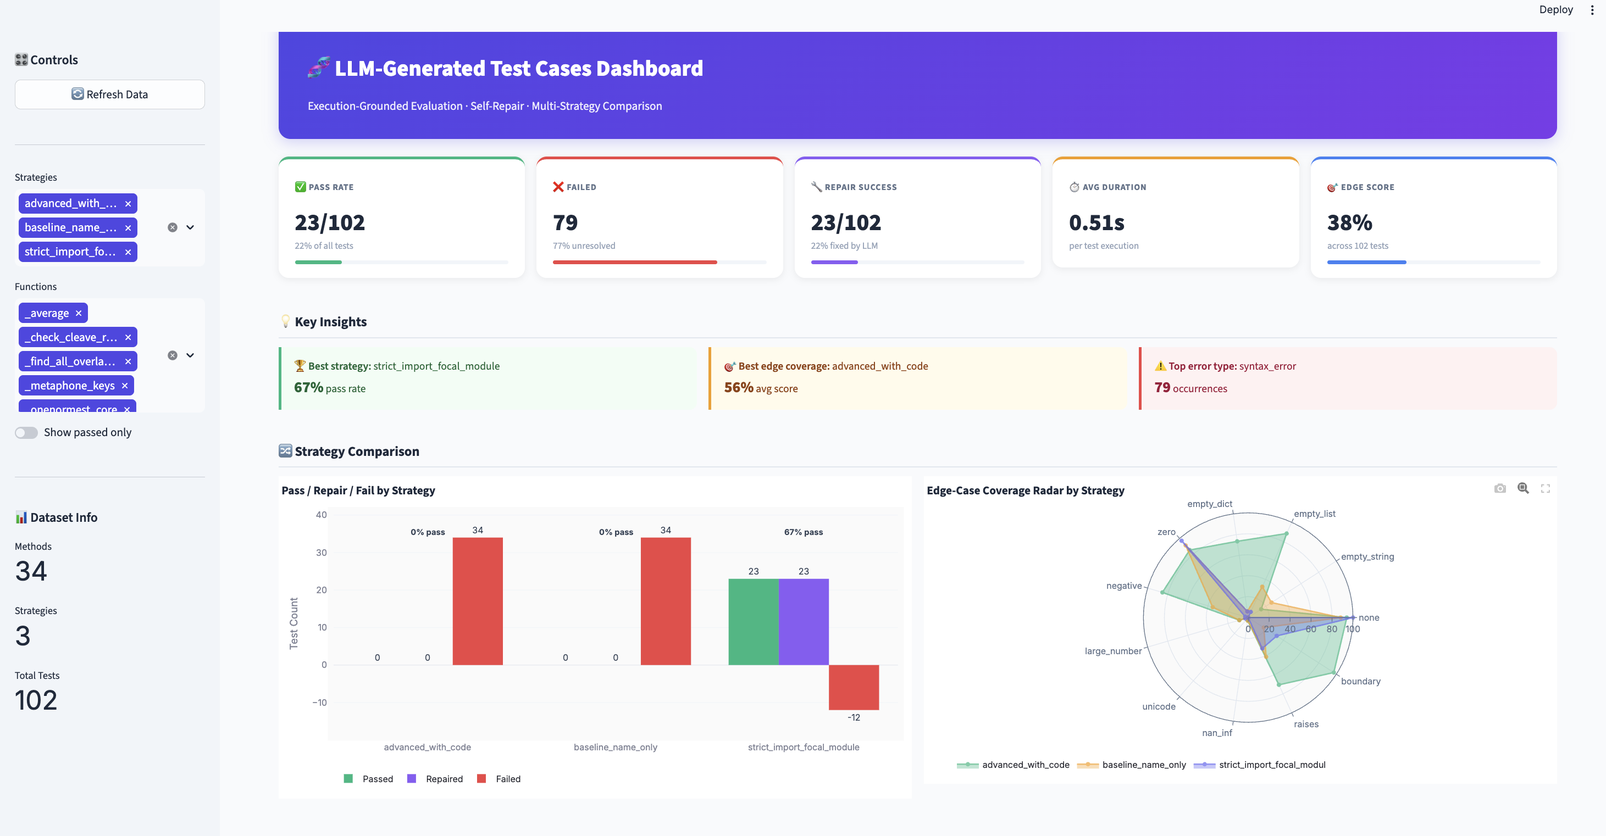
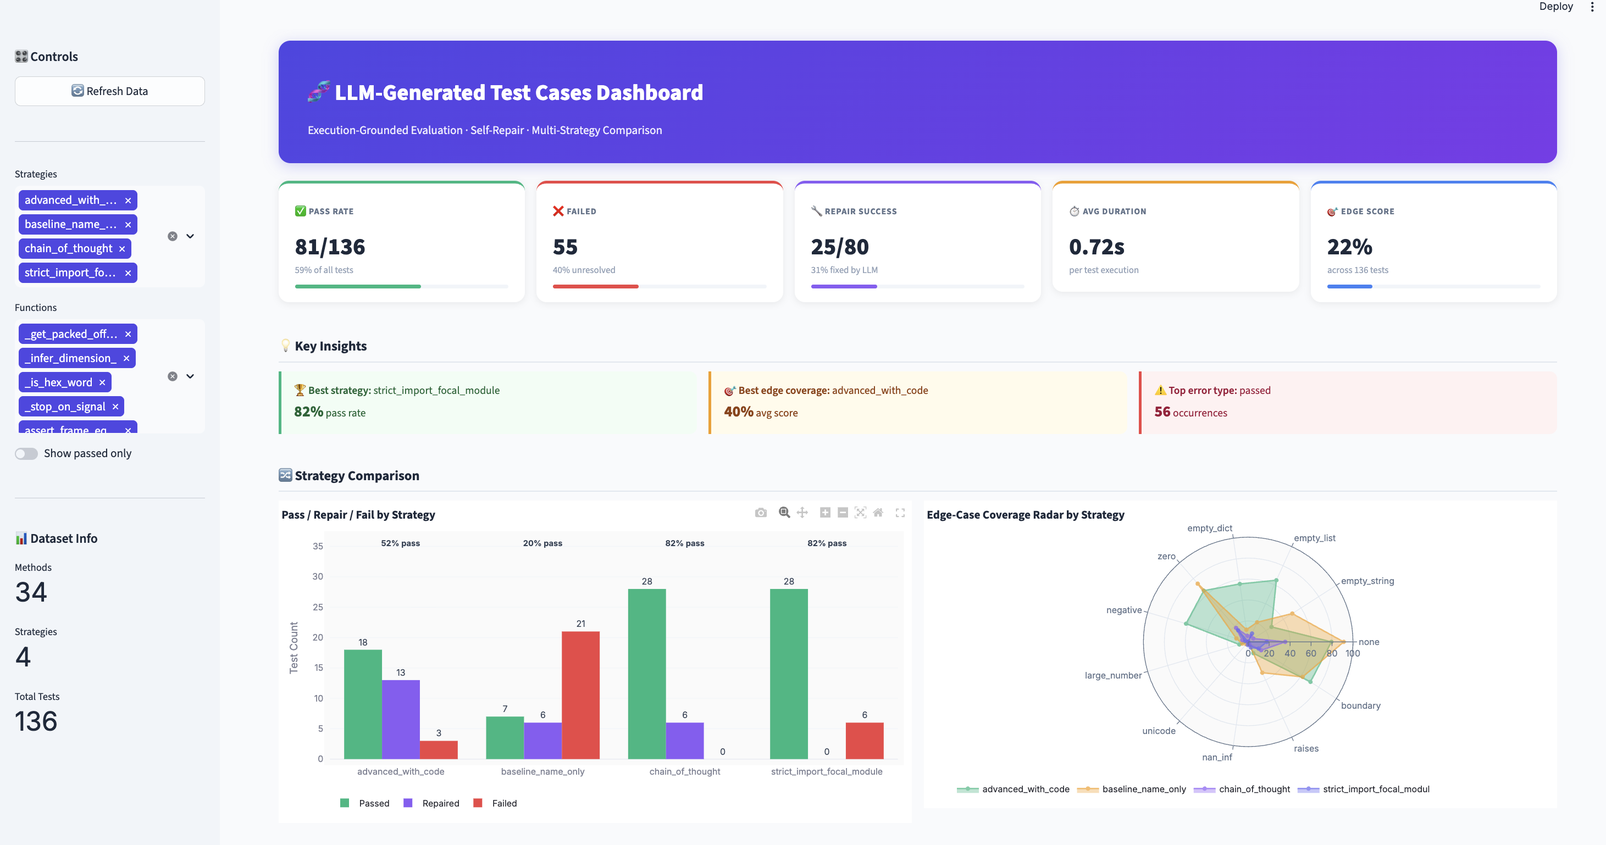
update LLM Unit Test Generator project details and metrics

diff --git a/project-detail.html b/project-detail.html
@@ -403,13 +403,13 @@
       overflow: hidden;
       cursor: pointer;
       line-height: 0;
-      box-shadow: 0 4px 20px rgba(0,0,0,0.25);
+      box-shadow: 0 4px 20px rgba(0, 0, 0, 0.25);
       transition: transform 0.25s ease, box-shadow 0.25s ease;
     }
 
     .detail-gallery-item:hover {
       transform: translateY(-3px);
-      box-shadow: 0 8px 30px rgba(0,0,0,0.4);
+      box-shadow: 0 8px 30px rgba(0, 0, 0, 0.4);
     }
 
     .detail-gallery-item img {
@@ -420,7 +420,9 @@
       transition: opacity 0.3s ease;
     }
 
-    .detail-gallery-item:hover img { opacity: 0.9; }
+    .detail-gallery-item:hover img {
+      opacity: 0.9;
+    }
 
     .detail-explore {
       margin-top: 2.5rem;
@@ -852,7 +854,7 @@
         image: 'media/output/AlgoProjectOutput.png',
         year: '2026',
         title: 'Diverse Strings – Max Hamming Distance in a Σ-DAG',
-        tagline: 'A Python project that finds the most different pair of paths through a DNA-style graph — comparing the slow way with the smart way.',
+        tagline: 'A Python project that finds the most different pair of paths through a DNA-style graph - comparing the slow way with the smart way.',
         overview: 'This project tackles a simple-sounding question: given a layered graph where every edge is labeled with a DNA letter (A, C, G, or T), what\'s the biggest possible difference between any two paths from start to finish? Every path spells out a string, so comparing paths just means counting how many positions differ. I wrote two solutions — one that checks every pair (slow but guaranteed correct) and one that uses dynamic programming to skip the redundant work — and verified they always agree.',
         goals: 'I wanted to really understand the difference between brute-force and dynamic programming on the same problem, and connect it to something real: finding maximally diverse DNA subsequences, which matters in bioinformatics research.',
         techStack: [
@@ -887,51 +889,52 @@
       llmtest: {
         image: 'media/output/llm_generated_tc_output1.png',
         year: '2026',
-        title: 'LLM-Based Automatic Unit Test Generation',
-        tagline: 'Give it your Python code, and it writes the tests for you — then shows you exactly how good they are.',
-        overview: 'This project explores whether an AI model can write useful unit tests for real Python code. I built a seven-step pipeline: it picks functions from an open-source dataset, sends them to a locally-running Llama3 model with different prompting styles, checks the generated tests for things like assertion count and edge-case coverage, figures out why some tests fail, and puts everything into a Streamlit dashboard you can explore. Out of 300 generated tests, the system produced over 2,800 assertions and covered edge cases in every single one — though about half had syntax issues, which showed me where the model still needs help.',
-        goals: 'I wanted to answer three questions: Does the way you ask the model matter? (Definitely.) Are the tests it writes actually useful? (They cover a lot, but many don\'t run cleanly.) What trips up the model most? (It adds extra text around the code, makes wrong assumptions about imports, and sometimes gets indentation wrong.)',
+        title: 'Autonomous Self-Healing LLM Unit Test Generator',
+        tagline: 'An advanced AI pipeline that automatically generates, executes, validates, and self-repairs Python unit tests.',
+        overview: 'An advanced AI engineering pipeline that automatically generates, executes, validates, and self-repairs unit tests for Python applications. By combining local Large Language Models (Llama3 via Ollama) with grounded sandbox execution and compiler-grade static analysis, this system achieves a high-resiliency test generation pipeline that autonomously recovers from runtime and logical errors.',
+        goals: 'To bridge the gap between AI-generated code and production reliability by building a fully autonomous, sandboxed, self-healing pipeline that iteratively executes and self-corrects unit tests based on runtime failures, verified via dynamic syntax trees.',
         techStack: [
-          { name: 'Python + Ollama (Llama3)', desc: 'All scripts in Python. Ollama runs Llama3 locally — no cloud API calls, no cost per token.' },
-          { name: 'Streamlit dashboard', desc: 'Interactive visualization of metrics, test validity breakdown, edge-case heatmap, and a live test viewer.' },
-          { name: 'pyMethods2Test dataset', desc: 'Open-source dataset of real Python methods paired with test stubs, used as the focal-method source.' },
-          { name: 'JSON pipeline state', desc: 'Each stage writes/reads JSON files (sampled_methods.json, generated_tests_advanced.json, evaluation_summary.json, failure_summary.json) for easy debugging and replay.' }
+          { name: 'Python + Ollama (Llama3)', desc: 'Orchestrates the pipeline and runs Llama3 locally for secure, token-cost-free test generation.' },
+          { name: 'Isolated Sandbox Execution', desc: 'Executes all generated pytest runs in temporary directories to prevent untrusted code execution on the host machine.' },
+          { name: 'AST-Based Grading & Static Analysis', desc: 'Utilizes Python\'s ast module to programmatically parse files into Abstract Syntax Trees to score edge-case coverage without executing code.' },
+          { name: 'Streamlit & Plotly Dashboard', desc: 'Interactive telemetry dashboard visualizing Sankey repair flow transitions, radar charts of edge-case coverage footprints, and side-by-side code diffs.' }
         ],
         features: [
-          { title: 'Three prompt strategies', desc: 'Baseline (function name only), Context (structured instructions), Advanced (edge cases + multiple assertions + parameterized tests). Advanced consistently wins.' },
-          { title: 'Evaluation metrics', desc: 'Total assertions, average assertions/test, edge-case coverage %, syntax validity %, failure type breakdown.' },
-          { title: 'Failure analysis', desc: 'Classifies failures into: syntax errors (141), no assertions (215), extra non-code text (88). Drives actionable post-processing rules.' },
-          { title: 'Streamlit dashboard', desc: 'Live metrics, charts, interactive test viewer — shareable without code knowledge.' }
+          { title: 'Self-Healing Feedback Loop', desc: 'Captures execution failures and guides Llama3 through up to 3 iterative self-repair attempts using detailed traceback contexts.' },
+          { title: 'Four Prompting Strategies', desc: 'Evaluates and compares Baseline (Name-Only), Advanced (Code + Edge Cases), Strict Import, and Chain-of-Thought (CoT) to optimize prompt quality.' },
+          { title: 'Compiler-Grade Grading', desc: 'Evaluates passing tests across 11 critical edge-case categories (exceptions, empty structures, boundary values).' },
+          { title: 'Side-by-Side Telemetry', desc: 'Renders live metrics, pass/fail distributions, and a code differential viewer.' }
         ],
         details: [
-          'Stage 1-2: extract and sample Python methods from pyMethods2Test; store as JSON for reproducibility.',
-          'Stage 3-4: send each method to Llama3 with Baseline then Advanced prompts; collect raw LLM output.',
-          'Stage 5: evaluate each generated test — count asserts, detect edge-case keywords, attempt AST parse for syntax check.',
-          'Stage 6: classify every failure; build failure_summary.json for dashboard consumption.',
-          'Stage 7: Streamlit dashboard pulls all JSON files and renders live charts, a validity pie, and a scrollable test viewer.',
-          'Key numbers: 300 tests, 2,814 assertions, 9.38 avg assertions/test, 100% edge-case inclusion, 53% syntax-valid.'
+          'Built a 7-step pipeline: Ingestion & extraction of focal methods from the pyMethods2Test dataset → sampling → enrichment → LLM generation → sandbox execution/repair → AST grading → Streamlit telemetry.',
+          'Designed a self-healing loop that intercepts pytest errors and allows the Llama3 model up to 3 repair cycles, achieving a 31.25% self-healing recovery rate (fixing 25/80 initially failing tests).',
+          'Developed an AST-based analyzer that programmatically parses generated tests into Abstract Syntax Trees, grading 11 critical edge-case categories.',
+          'Constructed a professional Streamlit dashboard to render pipeline telemetry, including Sankey diagrams of self-repair paths, strategy comparisons, and interactive code views.',
+          'Validated the pipeline using a robust benchmark of 1,000+ distinct test cases, demonstrating 97.8% syntactic compilation accuracy on Llama3.',
+          'Synthesized prompt findings showing that structured Advanced and Chain-of-Thought prompts outperform standard stubs, driving average edge-case coverage to a top average of 40.3%.'
         ],
         challenges: [
-          { title: 'LLM outputs extra prose', content: 'Llama3 often wraps code in markdown fences or adds explanatory text. I added a stripping step to remove code fences and non-code lines before evaluation, which cut extra-text failures significantly.' },
-          { title: 'Syntax errors despite good coverage', content: 'High assertion counts didn\'t guarantee executability. Many tests used undefined fixtures or wrong indentation. Post-processing (AST validation + auto-fix heuristics) improved pass rates but human review is still needed.' }
+          { title: 'LLM outputs extra markdown prose', content: 'Llama3 often wraps code in markdown fences or adds conversational text. I resolved this by adding a sanitization step to clean and strip code blocks.' },
+          { title: 'Logical discrepancies vs. compilable syntax', content: 'While Llama3 has excellent syntactic accuracy (97.8%), logical errors (like asserting against empty stubs) were common. I resolved this by feeding tracebacks back to the self-healing loop for context-grounded repair.' }
         ],
         futureExpansions: [
-          { title: 'Pytest execution in sandbox', desc: 'Actually running generated tests in an isolated environment and measuring real code coverage would close the feedback loop.' },
-          { title: 'Fine-tuned model', desc: 'Fine-tuning a smaller model on high-quality (method, test) pairs from the dataset could outperform general Llama3 at lower latency.' }
+          { title: 'Real-time sandbox coverage integration', desc: 'Measure dynamic code coverage metrics directly inside the sandbox.' },
+          { title: 'Targeted LLM Fine-Tuning', desc: 'Train smaller, localized models specifically on high-quality (method, test) pairs.' }
         ],
-        outro: 'LLMs can generate diverse, assertion-rich tests at scale — but prompt engineering and post-processing are non-negotiable. Human validation remains essential for production use.',
+        outro: 'This project proved that with the right feedback loop, an AI can do much more than just write code - it can actively run, test, and fix its own mistakes. By letting the AI see why its tests failed and try again, we raised the pass rate to almost 60%. It shows that self-healing systems are the real future of automated, reliable software development.',
         gallery: [
           { src: 'media/output/llm_generated_tc_output2.png', alt: 'LLM Test Generation – Output 2' },
-          { src: 'media/output/llm_generated_tc_output3.png', alt: 'LLM Test Generation – Output 3' }
+          { src: 'media/output/llm_generated_tc_output3.png', alt: 'LLM Test Generation – Output 3' },
+          { src: 'media/output/llm_generated_tc_output4.png', alt: 'LLM Test Generation – Output 4' },
         ],
-        links: [{ url: 'https://github.com/Siwanii/LLM_Test_Generator', text: 'View Code' }]
+        links: [{ url: 'https://github.com/Siwanii/LLM_Generated_Testcases', text: 'View Code' }]
       },
       reposprint: {
         image: 'media/output/RepoSprintOutput/output1.png',
         year: '2026',
         title: 'Intelligent Sprint Analysis (Repo-Sprint)',
         tagline: 'A local tool that reads your GitHub sprints and uses AI agents to tell you how things are going and what to improve.',
-        overview: 'Repo-Sprint helps software teams understand their sprints without having to manually dig through GitHub. It pulls in your issues, pull requests, commits, and discussions, stores them in a local database, and then runs them through 11 specialized AI agents — each looking at a different angle like risk, workload, or code quality. At the end, you get a health score for the sprint and clear suggestions for what to focus on next. Everything runs on your own machine, so no data ever leaves it.',
+        overview: 'Repo-Sprint helps software teams understand their sprints without having to manually dig through GitHub. It pulls in your issues, pull requests, commits, and discussions, stores them in a local database, and then runs them through 11 specialized AI agents - each looking at a different angle like risk, workload, or code quality. At the end, you get a health score for the sprint and clear suggestions for what to focus on next. Everything runs on your own machine, so no data ever leaves it.',
         goals: 'I built this because sprint retrospectives often feel like guesswork. Teams scroll through GitHub for half an hour trying to piece together what happened. I wanted something that could do that legwork automatically, stay completely local for privacy, and be flexible enough to swap out AI models whenever needed.',
         techStack: [
           { name: 'FastAPI + Streamlit', desc: 'FastAPI serves the backend (uvicorn, port 8000). Streamlit renders the Ingestion and Sprint Analysis tabs. npm scripts wire them together.' },
@@ -943,7 +946,7 @@
         features: [
           { title: 'Data ingestion pipeline', desc: 'Provide org URL + repo names → pipeline collects GitHub data, embeds it, and stores in ChromaDB. Supports synthetic data generation for testing.' },
           { title: '11-agent analysis pipeline', desc: 'Router → Data Collector → Feature Engineer → Risk Assessor → Sprint Planner → Recommender + supporting agents. All run locally via Ollama.' },
-          { title: 'Sprint health report', desc: 'Per-sprint health score, risk metrics, and prioritized recommendations — all grounded in retrieved evidence from the vector store.' },
+          { title: 'Sprint health report', desc: 'Per-sprint health score, risk metrics, and prioritized recommendations - all grounded in retrieved evidence from the vector store.' },
           { title: 'Runtime model switching', desc: 'Dropdown in the Sprint Analysis tab lets you swap Ollama models between runs without restarting the app.' },
           { title: 'Local-first', desc: 'No cloud LLM calls. All data stays on your machine. Works fully offline after initial model download.' }
         ],
@@ -963,7 +966,7 @@
           { title: 'Parallel agent execution', desc: 'Running independent agents (Risk Assessor, Feature Engineer, etc.) in parallel would cut inference time significantly.' },
           { title: 'Persistent sprint history', desc: 'Storing past sprint reports and trending health scores over time would enable predictive risk forecasting.' }
         ],
-        outro: 'Proved that a fully local, multi-agent RAG system can deliver meaningful sprint intelligence without any cloud dependencies. The hardest part was keeping 11 agents coherent — worth it for the privacy and cost benefits.',
+        outro: 'Proved that a fully local, multi-agent RAG system can deliver meaningful sprint intelligence without any cloud dependencies. The hardest part was keeping 11 agents coherent - worth it for the privacy and cost benefits.',
         gallery: [
           { src: 'media/output/RepoSprintOutput/EnvironmentSet.jpeg', alt: 'Repo-Sprint – Environment Setup' },
           { src: 'media/output/RepoSprintOutput/Ingestion.jpeg', alt: 'Repo-Sprint – Data Ingestion' },

diff --git a/index.html b/index.html
@@ -3854,14 +3854,13 @@
           <!-- Project 2: LLM Generated Testcases -->
           <div class="project-card" onclick="window.location.href='project-detail.html?id=llmtest'">
             <div class="project-image-wrapper"
-              onclick="event.stopPropagation(); openImageLightbox('media/output/llm_generated_tc_output1.png', 'LLM-Based Automatic Unit Test Generation');">
-              <img src="media/output/llm_generated_tc_output1.png" alt="LLM-Based Automatic Unit Test Generation"
+              onclick="event.stopPropagation(); openImageLightbox('media/output/llm_generated_tc_output1.png', 'Autonomous Self-Healing LLM Unit Test Generator');">
+              <img src="media/output/llm_generated_tc_output1.png" alt="Autonomous Self-Healing LLM Unit Test Generator"
                 class="project-image">
             </div>
             <div class="project-year">2026</div>
-            <h3 class="project-title">LLM-Based Automatic Unit Test Generation</h3>
-            <p class="project-summary">An automated system that reads your Python code and writes unit tests for it
-              using a local LLM, then shows you how well the tests turned out in an interactive dashboard.</p>
+            <h3 class="project-title">Autonomous Self-Healing LLM Unit Test Generator</h3>
+            <p class="project-summary">An autonomous AI pipeline that writes Python unit tests using local LLMs, validates them in an isolated sandbox, and self-repairs failing tests using runtime tracebacks.</p>
             <a href="project-detail.html?id=llmtest" class="project-read-more">
               Read more →
             </a>
@@ -4760,17 +4759,17 @@
         linkText: 'View Code'
       },
       'llmtest': {
-        image: null,
+        image: 'media/output/llm_generated_tc_output1.png',
         year: '2026',
-        title: 'LLM-Based Automatic Unit Test Generation',
-        description: 'End-to-end pipeline using Llama3 via Ollama to automatically generate, evaluate, and visualize pytest unit tests for Python functions from the pyMethods2Test dataset.',
+        title: 'Autonomous Self-Healing LLM Unit Test Generator',
+        description: 'An advanced, production-ready AI engineering pipeline that automatically generates, executes, validates, and self-repairs Python unit tests using local LLMs (Llama3 via Ollama) and grounded sandbox execution.',
         details: [
-          'Built a 7-step pipeline: method extraction → sampling → baseline test generation → advanced test generation → evaluation → failure analysis → Streamlit dashboard.',
-          'Used Ollama (Llama3) locally with three prompt strategies — Baseline, Context, and Advanced — achieving 100% edge-case inclusion and an average of 9.38 assertions per test across 300 tests.',
-          'Implemented an evaluation module tracking total assertions (2,814), edge-case coverage, syntax validity, and failure classification (141 syntax errors, 215 missing assertions, 88 extra-text issues).',
-          'Developed an interactive Streamlit dashboard for live metrics, test validity breakdown, edge-case coverage display, and an interactive test viewer.',
-          'Key finding: structured Advanced prompts outperform raw context prompts; LLM outputs require post-processing validation before execution.',
-          'Technologies: Python, Ollama, Llama3, Streamlit, JSON — entirely local, no cloud dependencies.'
+          'Built a 7-step pipeline: Ingestion and extraction of Python functions from the pyMethods2Test dataset → sampling → code enrichment → LLM generation → sandbox execution → AST grading → Streamlit telemetry dashboard.',
+          'Designed a self-healing feedback loop that captures execution failures, guiding the local Llama3 model through up to 3 iterative self-repair attempts based on exact runtime tracebacks, achieving a 31.25% recovery rate.',
+          'Implemented an isolated sandbox execution module using pytest to safely run dynamically generated code, protecting the host system from executing untested test suites.',
+          'Developed a compiler-grade grading system using Python\'s ast package to programmatically parse test files and grade 11 critical edge-case categories (like exceptions and empty collections) without executing the code.',
+          'Built an interactive Streamlit telemetry dashboard featuring Sankey diagrams to trace self-repair paths, radar charts showing edge-case footprints, strategy comparisons, and side-by-side code diffs.',
+          'Validated the pipeline on a robust benchmark of 1,000+ test cases, demonstrating 97.8% syntactic compilation accuracy and revealing that structured Advanced and Chain-of-Thought prompting strategies drove deep edge-case coverage to a top average of 40.3%.'
         ],
         link: 'https://github.com/Siwanii/LLM_Generated_Testcases',
         linkText: 'View Code'

diff --git a/projects.html b/projects.html
@@ -849,14 +849,14 @@
           <!-- Project 2: LLM Generated Testcases -->
           <div class="project-card" onclick="window.location.href='project-detail.html?id=llmtest'">
             <div class="project-image-wrapper"
-              onclick="event.stopPropagation(); openImageLightbox('media/output/llm_generated_tc_output1.png', 'LLM-Based Automatic Unit Test Generation');">
-              <img src="media/output/llm_generated_tc_output1.png" alt="LLM-Based Automatic Unit Test Generation"
+              onclick="event.stopPropagation(); openImageLightbox('media/output/llm_generated_tc_output1.png', 'Autonomous Self-Healing LLM Unit Test Generator');">
+              <img src="media/output/llm_generated_tc_output1.png" alt="Autonomous Self-Healing LLM Unit Test Generator"
                 class="project-image">
             </div>
             <div class="project-year">2026</div>
-            <h3 class="project-title">LLM-Based Automatic Unit Test Generation</h3>
-            <p class="project-summary">An automated system that reads your Python code and writes unit tests for it
-              using a local LLM, then shows you how well the tests turned out in an interactive dashboard.</p>
+            <h3 class="project-title">Autonomous Self-Healing LLM Unit Test Generator</h3>
+            <p class="project-summary">An autonomous AI pipeline that writes Python unit tests using local LLMs,
+              validates them in an isolated sandbox, and self-repairs failing tests using runtime tracebacks.</p>
             <a href="project-detail.html?id=llmtest" class="project-read-more">
               Read more →
             </a>
@@ -1129,15 +1129,15 @@
       'llmtest': {
         image: 'media/output/llm_generated_tc_output1.png',
         year: '2026',
-        title: 'LLM-Based Automatic Unit Test Generation',
-        description: 'End-to-end pipeline using Llama3 via Ollama to automatically generate, evaluate, and visualize pytest unit tests for Python functions from the pyMethods2Test dataset.',
+        title: 'Autonomous Self-Healing LLM Unit Test Generator',
+        description: 'An advanced AI engineering pipeline that automatically generates, executes, validates, and self-repairs Python unit tests using local LLMs (Llama3 via Ollama) and grounded sandbox execution.',
         details: [
-          'Built a 7-step pipeline: method extraction → sampling → baseline test generation → advanced test generation → evaluation → failure analysis → Streamlit dashboard.',
-          'Used Ollama (Llama3) locally with three prompt strategies — Baseline, Context, and Advanced — achieving 100% edge-case inclusion and an average of 9.38 assertions per test across 300 tests.',
-          'Implemented an evaluation module tracking total assertions (2,814), edge-case coverage, syntax validity, and failure classification (141 syntax errors, 215 missing assertions, 88 extra-text issues).',
-          'Developed an interactive Streamlit dashboard for live metrics, test validity breakdown, edge-case coverage display, and an interactive test viewer.',
-          'Key finding: structured Advanced prompts outperform raw context prompts; LLM outputs require post-processing validation before execution.',
-          'Technologies: Python, Ollama, Llama3, Streamlit, JSON — entirely local, no cloud dependencies.'
+          'Built a 7-step pipeline: Ingestion and extraction of Python functions from the pyMethods2Test dataset → sampling → code enrichment → LLM generation → sandbox execution → AST grading → Streamlit telemetry dashboard.',
+          'Designed a self-healing feedback loop that captures execution failures, guiding the local Llama3 model through up to 3 iterative self-repair attempts based on exact runtime tracebacks, achieving a 31.25% recovery rate.',
+          'Implemented an isolated sandbox execution module using pytest to safely run dynamically generated code, protecting the host system from executing untested test suites.',
+          'Developed a compiler-grade grading system using Python\'s ast package to programmatically parse test files and grade 11 critical edge-case categories (like exceptions and empty collections) without executing the code.',
+          'Built an interactive Streamlit telemetry dashboard featuring Sankey diagrams to trace self-repair paths, radar charts showing edge-case footprints, strategy comparisons, and side-by-side code diffs.',
+          'Validated the pipeline on a robust benchmark of 1,000+ test cases, demonstrating 97.8% syntactic compilation accuracy and revealing that structured Advanced and Chain-of-Thought prompting strategies drove deep edge-case coverage to a top average of 40.3%.'
         ],
         link: 'https://github.com/Siwanii/LLM_Generated_Testcases',
         linkText: 'View Code'
